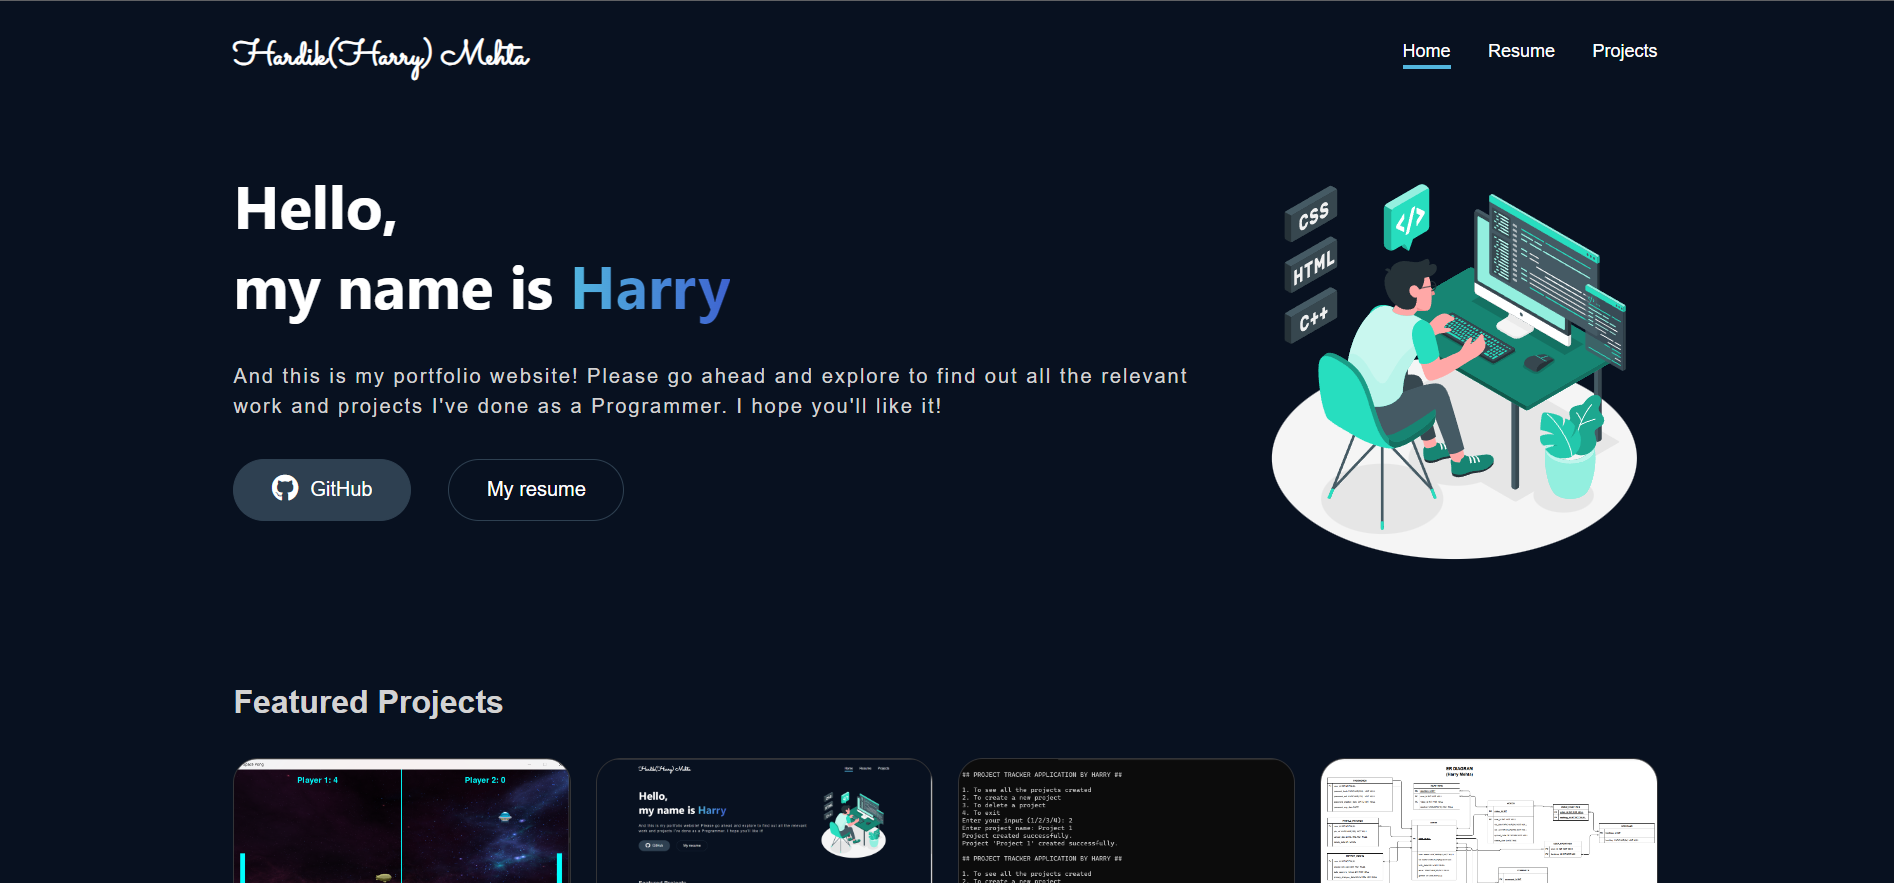
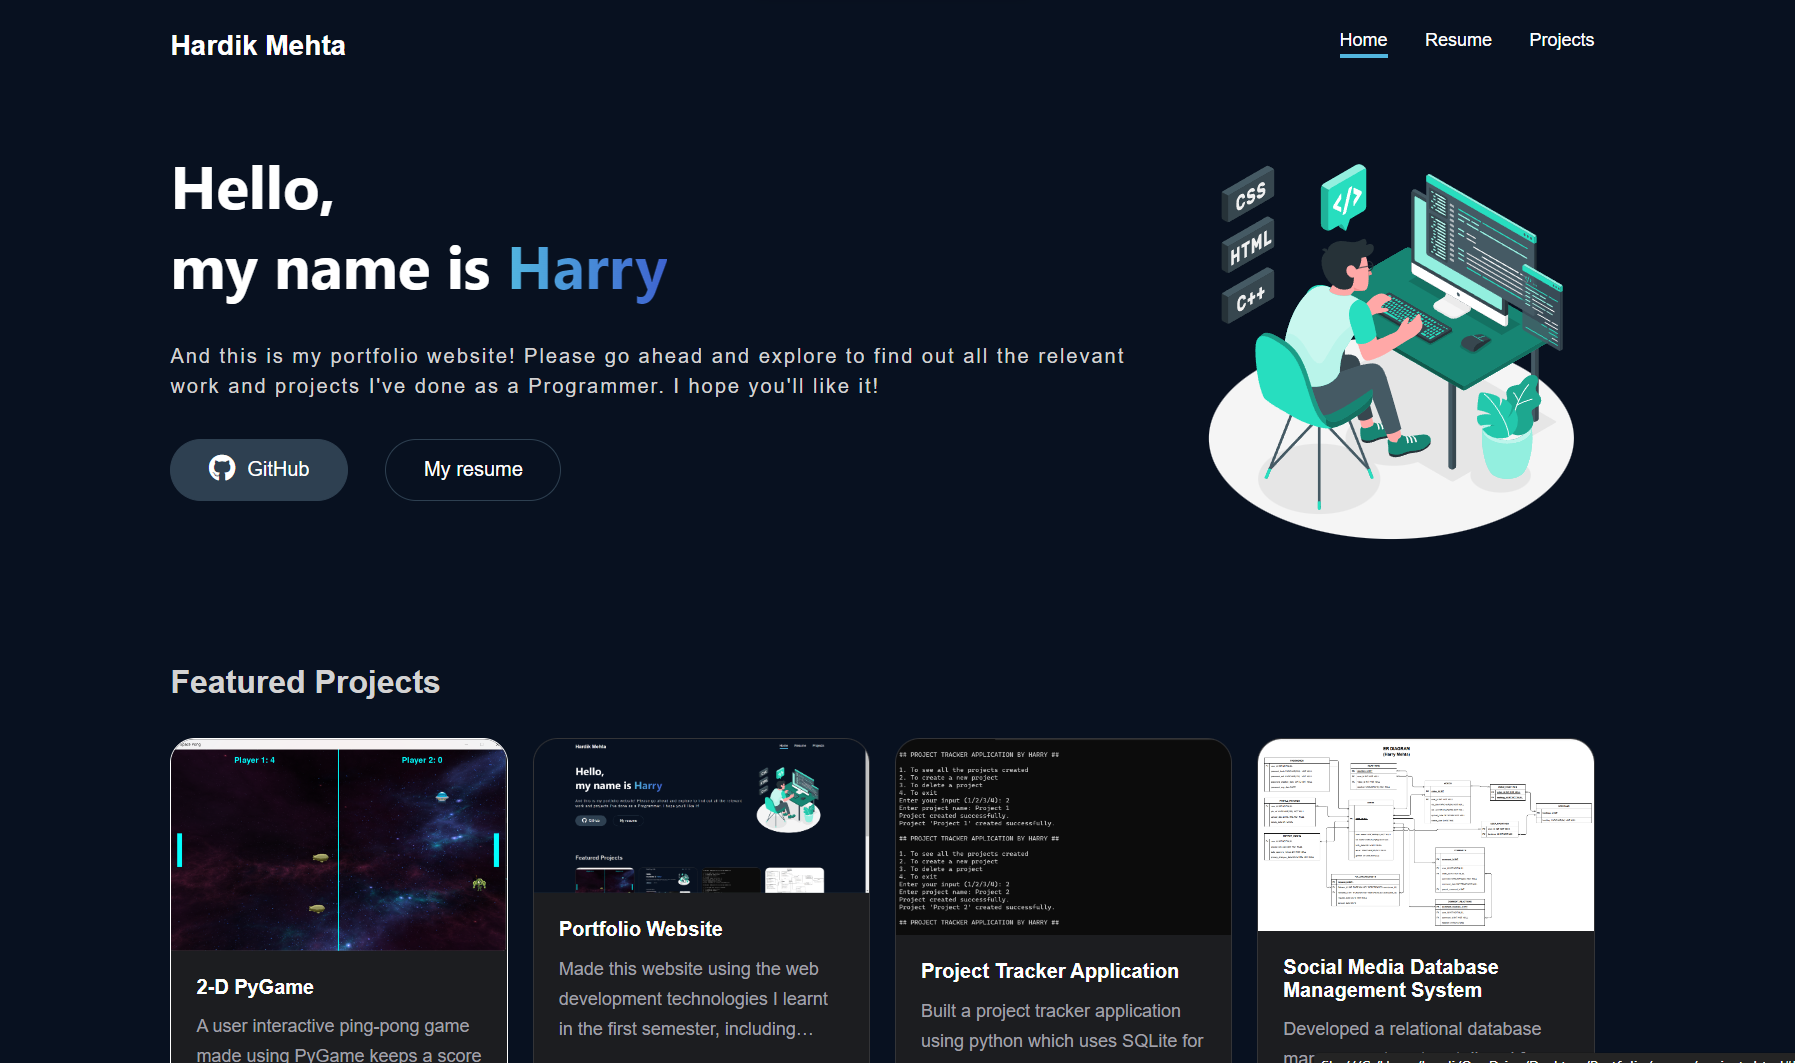
Portfolio

diff --git a/pages/resume.html b/pages/resume.html
@@ -31,7 +31,7 @@
         <main>
             <section id="s-header">
                 <div class="img">
-                    <img src="../images/profile.jpeg" width="250px">
+                    <img src="../images/profile.jpg" width="250px">
                     <a download class="download-button" href="../lib/My Resume.pdf">DOWNLOAD <i class="fas fa-arrow-down fa-lg"></i></a>
                 </div>
                 <div class="content">

diff --git a/index.html b/index.html
@@ -11,7 +11,7 @@
     </head>
     <body id="p-home">
         <header class="g-header g-container">
-            <a class="g-site-title" href="./index.html">Hardik(Harry) Mehta</a>
+            <a class="g-site-title" href="./index.html">Hardik Mehta</a>
             <nav class="g-navbar">
                 <a href="#" class="active" >Home</a>
                 <a href="./pages/resume.html">Resume</a>

diff --git a/pages/projects.html b/pages/projects.html
@@ -11,7 +11,7 @@
     </head>
     <body id="p-projects">
         <header class="g-header g-container">
-            <a class="g-site-title" href="../index.html">Hardik(Harry) Mehta</a>
+            <a class="g-site-title" href="../index.html">Hardik Mehta</a>
             <nav class="g-navbar">
                 <a href="../index.html">Home</a>
                 <a href="./resume.html">Resume</a>

diff --git a/css/global.css b/css/global.css
@@ -32,8 +32,8 @@ a {
 }
 
 .g-header .g-site-title {
-    font-family: 'Sacramento', sans-serif;
-    font-size: 1.7rem;
+    font-family: 'Lato', sans-serif;
+    font-size: 1.4rem;
     font-weight: bold;
     color: white;
     margin: 0px;

diff --git a/css/resume.css b/css/resume.css
@@ -45,7 +45,7 @@ a {
 #p-resume #s-header .content .name {
     font-size: 3rem;
     font-weight: bolder;
-    color: #9f6efc;
+    color: #6d43e9;
     padding-bottom: 4px;
     border-bottom: 4px solid;
 }
